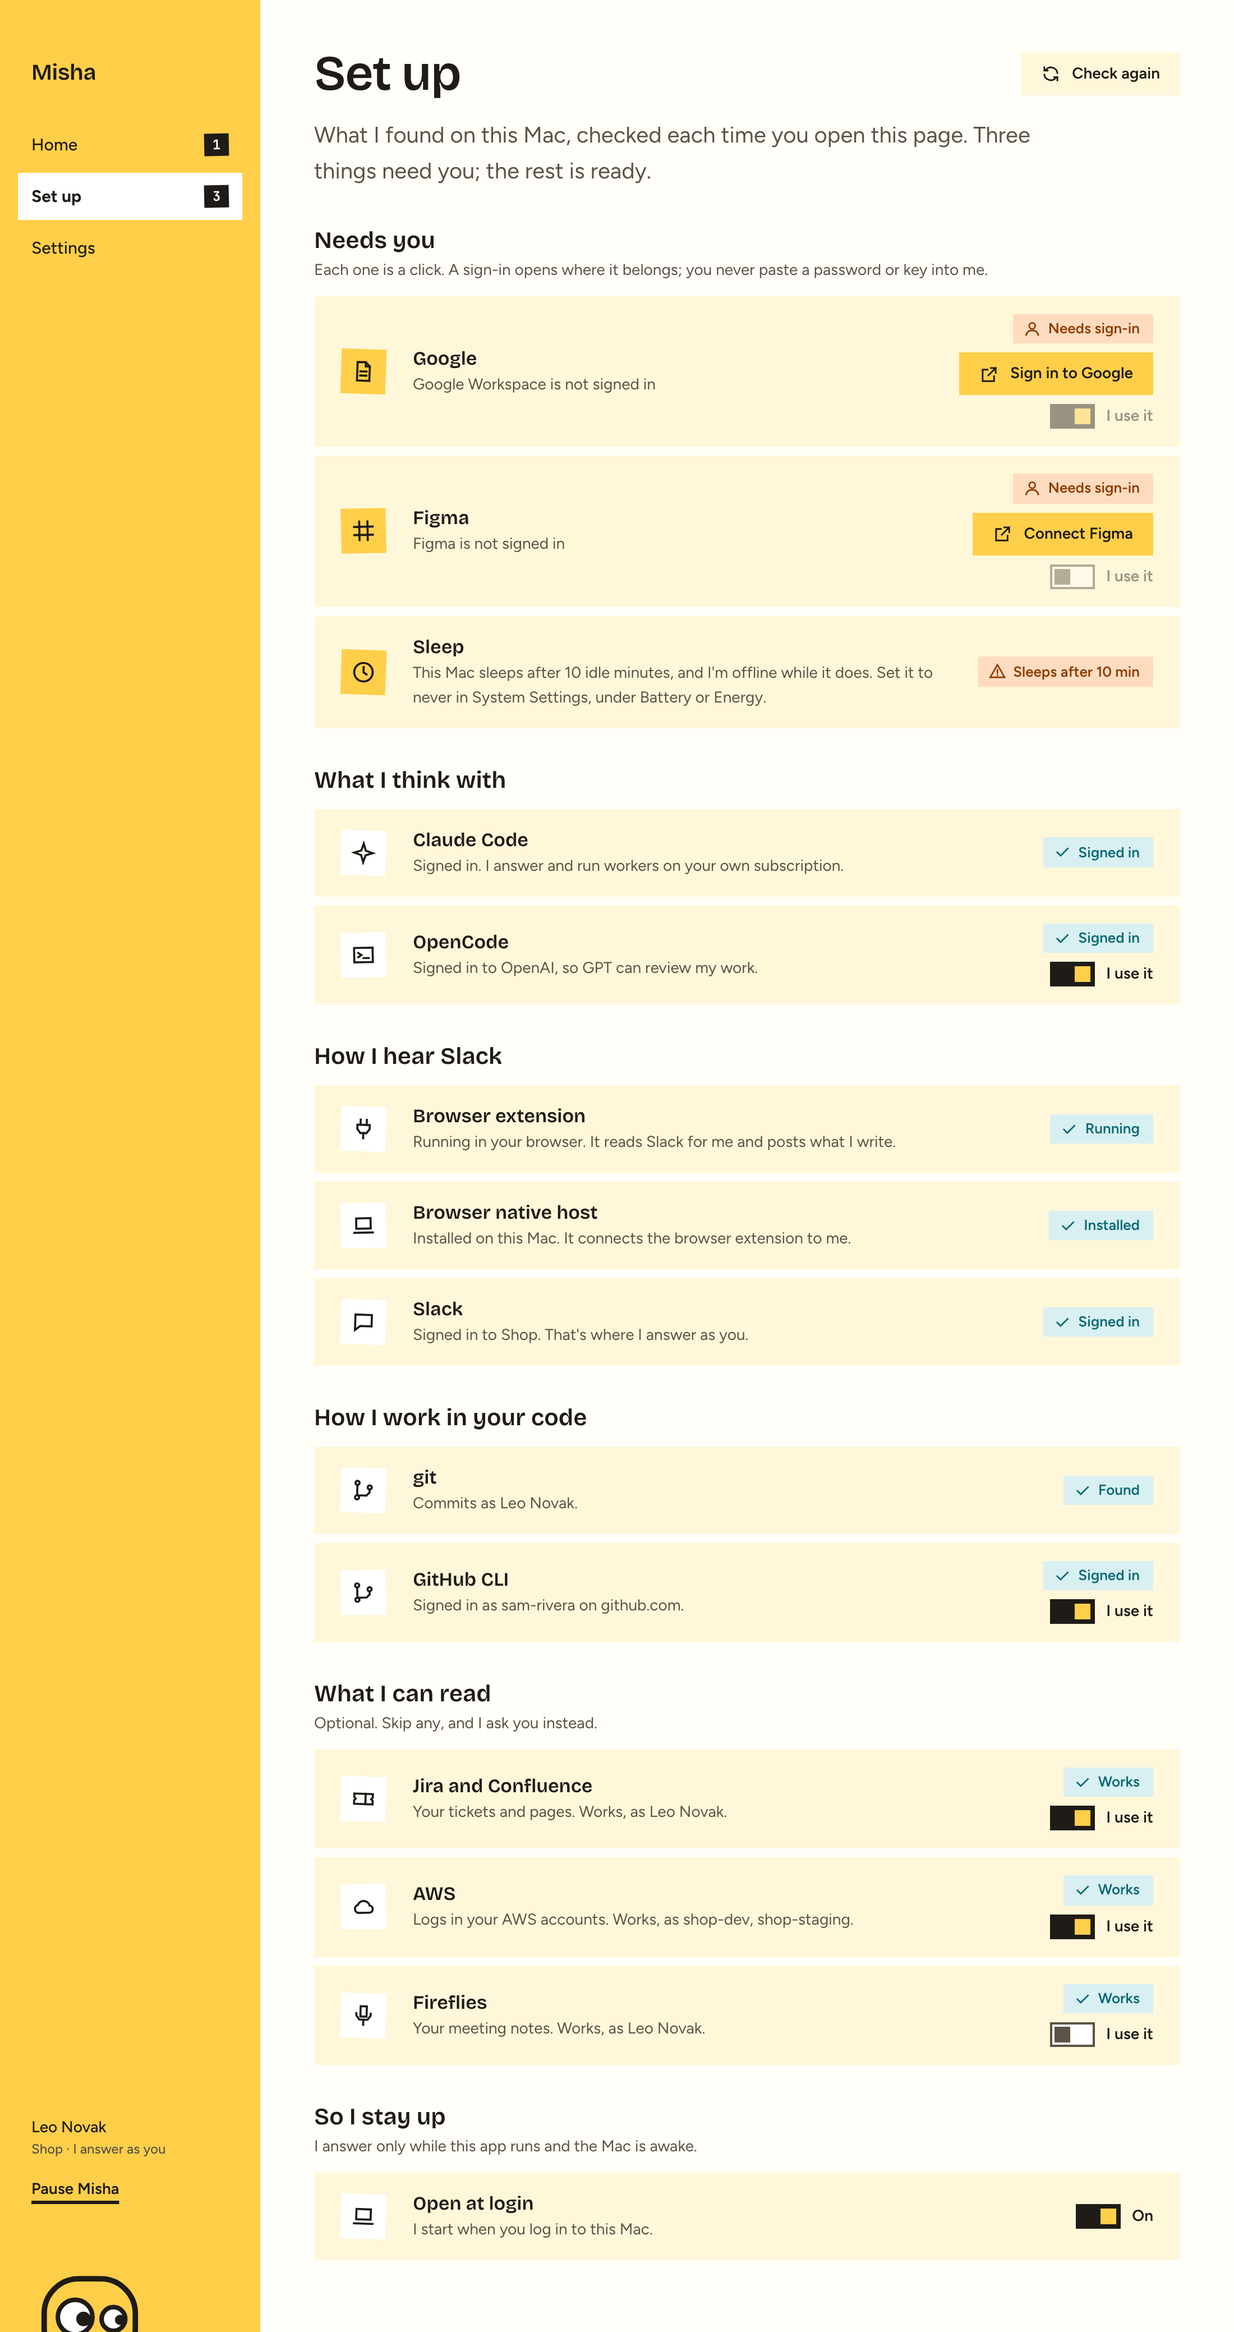
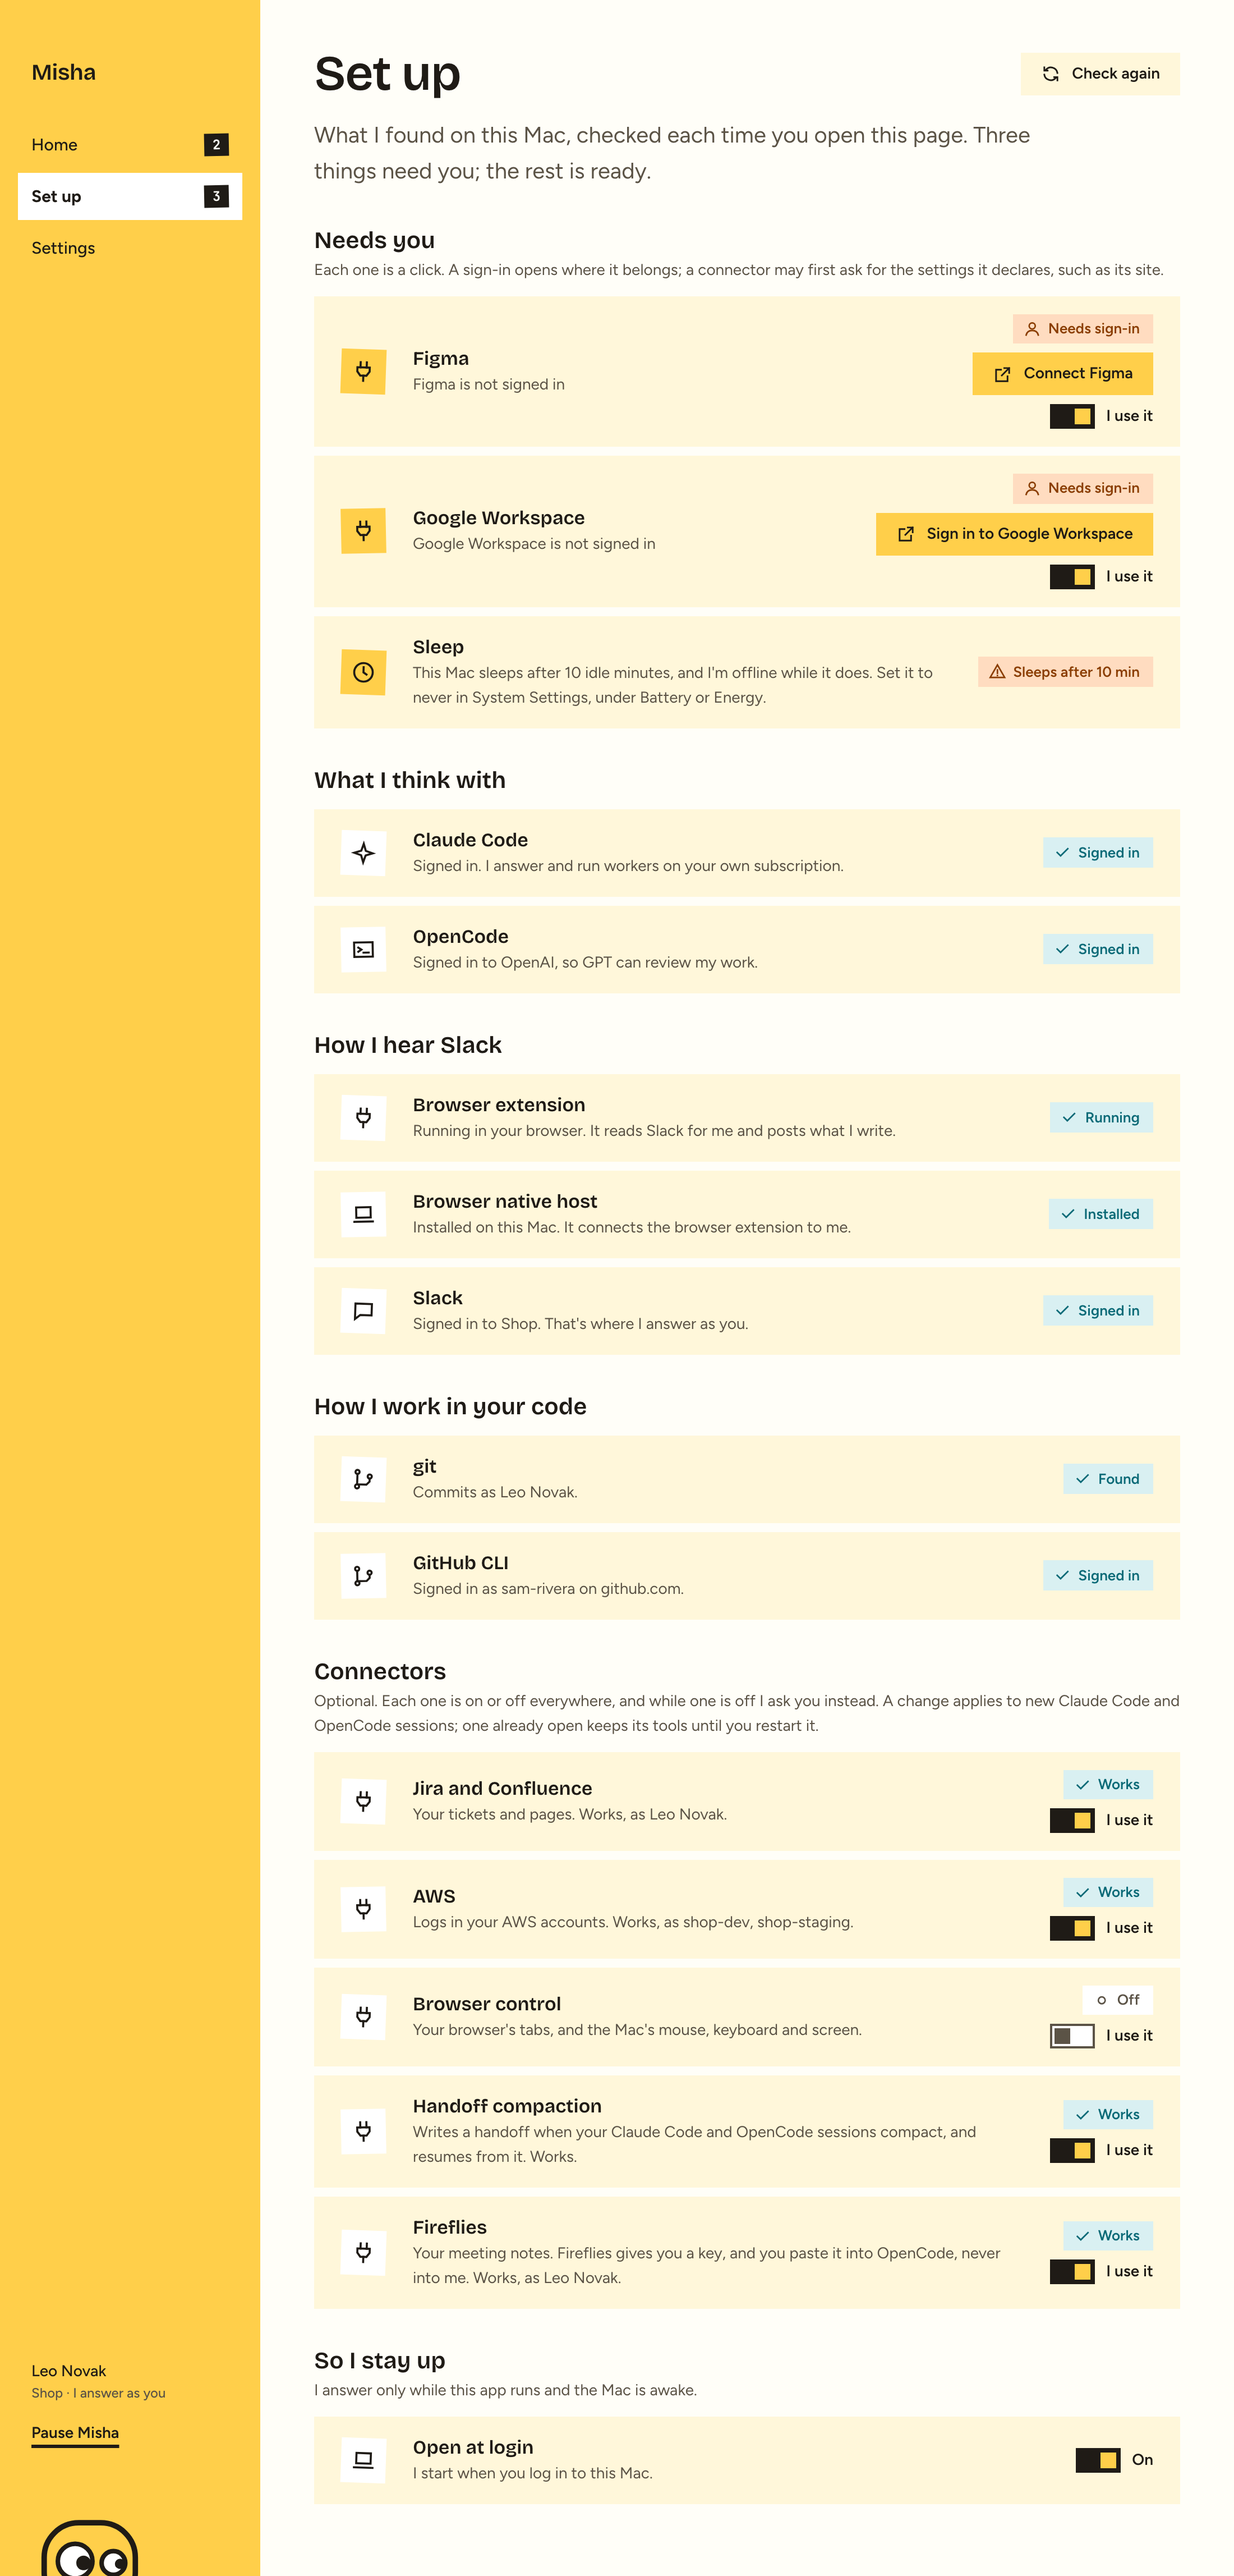
chore: import the desktop export with connectors, routines, linked folders and the runtime
Settings gain routines, connectors in place of integrations, the
runtime and per-runtime models, and repositories become linked folders
whose remote has its own format, so the import schema takes a remote
format and a choice of runtimes and drops the repository owner format.
The commands gain set routines, use claude code and use opencode, and
merging is allowed per linked folder. Detection groups the connectors,
and the paths gain the clone's OpenCode folder, worker scratch folders
and the ~/.agents/skills install records.

diff --git a/scripts/fact-tables.ts b/scripts/fact-tables.ts
@@ -281,7 +281,7 @@ const placeLabel = (place: string): string => labelOf(PLACE_LABELS, place)
 
 // Each limit a setting can carry, in the order a cell lists them. Every key of the schema's limits is here, so a key
 // the export adds fails the typecheck until this says how to show it. A format is a regular expression with flags that
-// change what it accepts (the repository owner and name match in any case), so a cell says a format is checked rather
+// change what it accepts (a repository's remote matches in any case), so a cell says a format is checked rather
 // than print an expression the reader would have to decode.
 const LIMIT_TEXT: Readonly<Record<keyof Limits, (limits: Limits) => string | undefined>> = {
   maxCharacters: ({ maxCharacters }) =>
@@ -293,12 +293,13 @@ const LIMIT_TEXT: Readonly<Record<keyof Limits, (limits: Limits) => string | und
     maxNameCharacters === undefined ? undefined : `names up to ${NUMBER_FORMAT.format(maxNameCharacters)} characters`,
   levels: ({ levels }) => (levels === undefined ? undefined : `levels ${codes(levels)}`),
   names: ({ names }) => (names === undefined ? undefined : `each one of ${codes(names)}`),
+  runtimes: ({ runtimes }) => (runtimes === undefined ? undefined : `one of ${runtimes.join(', ')}`),
   isWholeNumber: ({ isWholeNumber }) => (isWholeNumber === undefined ? undefined : 'whole number'),
   minTokens: ({ minTokens }) =>
     minTokens === undefined ? undefined : `at least ${NUMBER_FORMAT.format(minTokens)} ${minTokens === 1 ? 'token' : 'tokens'}`,
   channelId: ({ channelId }) => (channelId === undefined ? undefined : FORMAT_CHECKED),
-  owner: ({ owner }) => (owner === undefined ? undefined : FORMAT_CHECKED),
   name: ({ name }) => (name === undefined ? undefined : FORMAT_CHECKED),
+  remote: ({ remote }) => (remote === undefined ? undefined : FORMAT_CHECKED),
 }
 
 // Empty when the export lists no limit: the export says what the app checks, not that a value has no constraint.

diff --git a/scripts/fact-tables.test.ts b/scripts/fact-tables.test.ts
@@ -51,6 +51,7 @@ const SETTINGS = {
     { field: 'icon', description: 'The emoji.', default: ':misha:', limits: { name: { pattern: '^[a-z]+$', flags: 'iu' } } },
     { field: 'notes', description: 'What it remembers.', default: 'None.', limits: { maxNotes: 200, maxCharactersEach: 1000 } },
     { field: 'compactAtTokens', description: 'When the clone compacts.', default: '150000', limits: { isWholeNumber: true, minTokens: 1 } },
+    { field: 'runtime', description: 'What the clone runs on.', default: 'Claude Code.', limits: { runtimes: ['Claude Code', 'OpenCode'] } },
     { field: 'sessionEpoch', description: 'Moves on with start fresh.', default: '0', limits: {} },
   ],
   mutations: [
@@ -207,7 +208,7 @@ describe('[scripts] Fact tables - factTableMarkdown and isFactTableMarker', () =
     ])
   })
 
-  it('should state count and number limits, say a format is checked rather than print its pattern, and leave no listed limit empty', () => {
+  it('should state count, number and choice limits, say a format is checked rather than print its pattern, and leave no listed limit empty', () => {
     // Act
     const markdown = factTableMarkdown(FACTS, '<!-- facts settings -->')
 
@@ -216,6 +217,7 @@ describe('[scripts] Fact tables - factTableMarkdown and isFactTableMarker', () =
       '| `icon` | The emoji. | :misha: | Format checked when saved |',
       '| `notes` | What it remembers. | None. | Up to 200 notes; 1,000 characters each |',
       '| `compactAtTokens` | When the clone compacts. | 150000 | Whole number; at least 1 token |',
+      '| `runtime` | What the clone runs on. | Claude Code. | One of Claude Code, OpenCode |',
       '| `sessionEpoch` | Moves on with start fresh. | 0 |  |',
     ])
   })

diff --git a/scripts/public-data.test.ts b/scripts/public-data.test.ts
@@ -151,17 +151,10 @@ describe('[scripts] Public data - findingsInFile', () => {
       expect(findings).toStrictEqual([])
     })
 
-    it("should pass a repository owner's format and a token count at their reviewed locations, and fail them elsewhere", () => {
+    it('should pass a token count at its reviewed location, and fail it elsewhere', () => {
       // Arrange
       const settings = JSON.stringify(
-        {
-          fields: [
-            { limits: { owner: { pattern: '^[a-z0-9-]{1,39}$', flags: 'iu' } } },
-            { limits: { isWholeNumber: true, minTokens: 1 } },
-          ],
-          owner: { pattern: '^[a-z]+$' },
-          minTokens: 1,
-        },
+        { fields: [{ limits: { isWholeNumber: true, minTokens: 1 } }], minTokens: 1 },
         null,
         2
       )
@@ -170,10 +163,7 @@ describe('[scripts] Public data - findingsInFile', () => {
       const findings = findingsInFile('facts/desktop/settings.json', text(settings))
 
       // Assert
-      expect(findings).toStrictEqual([
-        { file: 'facts/desktop/settings.json', line: 19, rule: 'person outside the cast' },
-        { file: 'facts/desktop/settings.json', line: 21, rule: 'credential field' },
-      ])
+      expect(findings).toStrictEqual([{ file: 'facts/desktop/settings.json', line: 10, rule: 'credential field' }])
     })
 
     it('should fail people outside the cast under every person key, nested or not, and a role id elsewhere', () => {

diff --git a/scripts/public-data.ts b/scripts/public-data.ts
@@ -135,9 +135,6 @@ const NON_PERSON_LOCATIONS: readonly { file: string; path: string }[] = [
   { file: 'facts/desktop/commands.json', path: 'senders.*.id' },
   { file: 'facts/desktop/commands.json', path: 'senders.*.description' },
   { file: 'facts/desktop/commands.json', path: 'commands.*.sender' },
-  // The format a repository's GitHub owner must match: its regular expression and flags.
-  { file: 'facts/desktop/settings.json', path: 'fields.*.limits.owner.pattern' },
-  { file: 'facts/desktop/settings.json', path: 'fields.*.limits.owner.flags' },
   // The browser disclosures' sentence on where the extension sends data.
   { file: 'facts/browser/store-disclosures.json', path: 'dataUsage.recipients' },
 ]

diff --git a/scripts/desktop-export.ts b/scripts/desktop-export.ts
@@ -116,9 +116,10 @@ const FACT_SCHEMAS = {
           maxNameCharacters: z.int().positive().optional(),
           levels: z.array(SLUG).optional(),
           channelId: FORMAT.optional(),
-          owner: FORMAT.optional(),
           name: FORMAT.optional(),
+          remote: FORMAT.optional(),
           names: z.array(SLUG).optional(),
+          runtimes: z.array(TEXT).optional(),
           isWholeNumber: z.literal(true).optional(),
           minTokens: z.int().positive().optional(),
         }),
